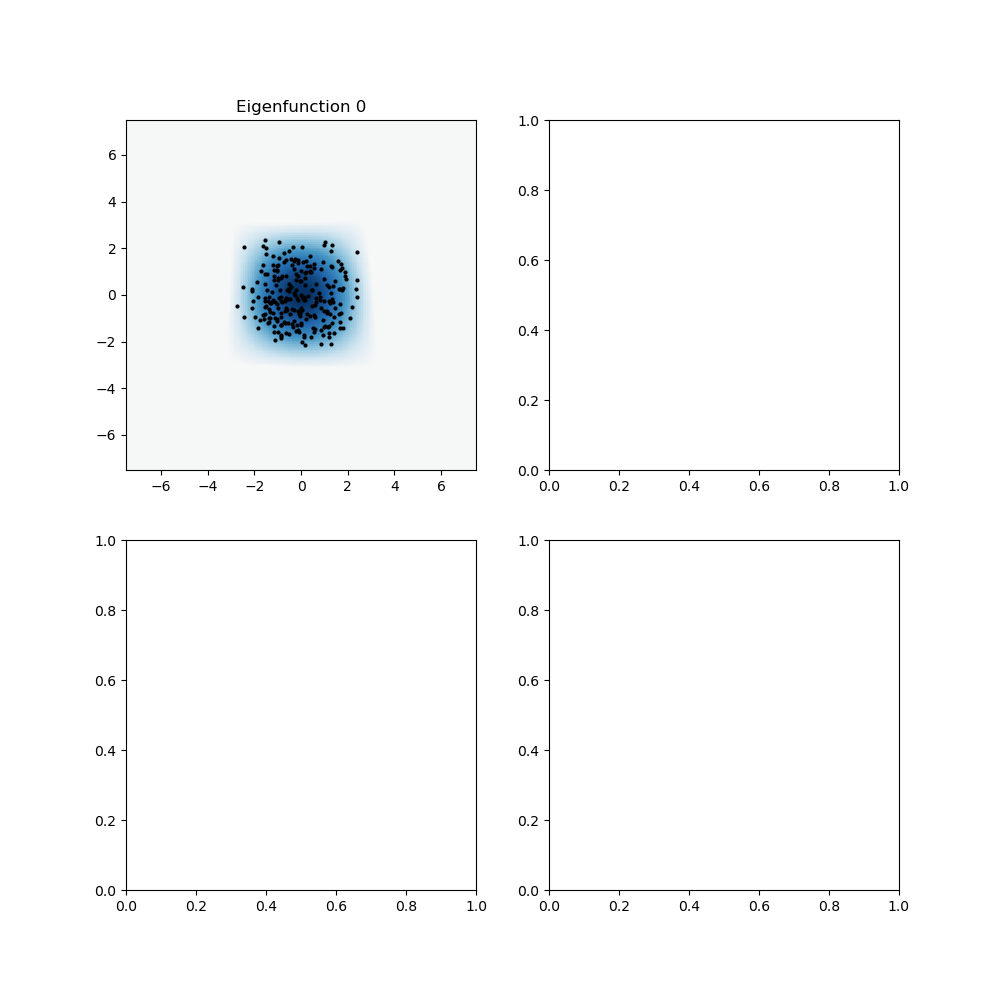
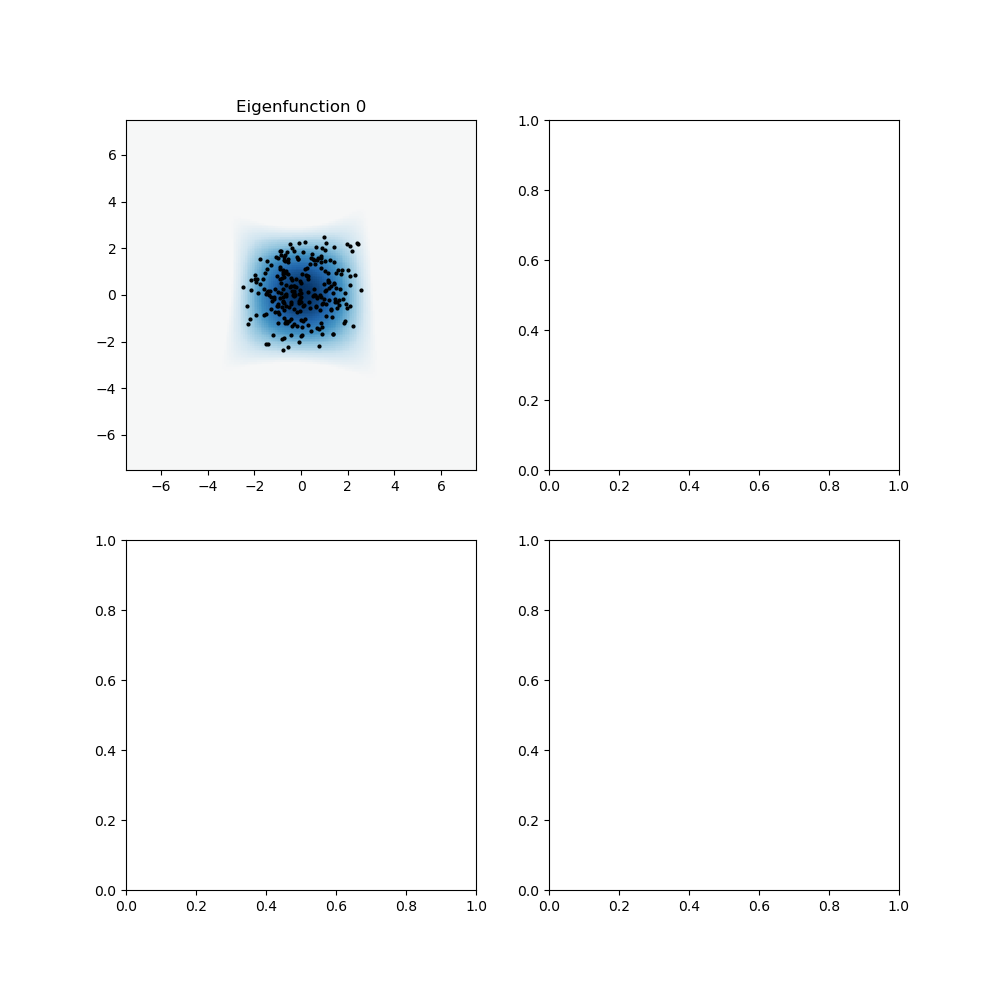
.

Changed region(s): [[0.248, 0.217, 0.372, 0.372]]

diff --git a/vqmc.py b/vqmc.py
@@ -20,7 +20,7 @@ from helper import test_calibration
 
 # config.update("jax_enable_x64", True)
 # config.update('jax_platform_name', 'cpu')
-config.update("jax_debug_nans", True)
+# config.update("jax_debug_nans", True)
 
 
 def create_train_state(box_length, learning_rate, n_space_dimension=2, prior_wavefunction_n=1, rng=0):
@@ -51,13 +51,13 @@ def create_train_state(box_length, learning_rate, n_space_dimension=2, prior_wav
         _, params = init_fun(rng, (input_dim,))
         return params, apply_fun
 
-    psi, pdf, dpdf, cdf = get_particle_in_the_box_fns(box_length, prior_wavefunction_n)
-    particleInBox = ParticleInBoxWrapper(psi, pdf, dpdf, cdf)
+    psi, prior_pdf, dpdf, cdf = get_particle_in_the_box_fns(box_length, prior_wavefunction_n)
+    particleInBox = ParticleInBoxWrapper(psi, prior_pdf, dpdf, cdf)
     sample = NumericalInverseHermite(particleInBox, domain=(-box_length / 2, box_length / 2), order=1, u_resolution=1e-7)
 
     init_fun = WaveFlow(
         flows.Serial(*(flows.MADE(masked_transform), flows.Reverse()) * 5),
-        psi, pdf, sample
+        psi, prior_pdf, sample
     )
 
     params, psi, log_pdf, sample = init_fun(rng, n_space_dimension, normalization_length=box_length)
@@ -103,16 +103,16 @@ def conditional_expand(arr1, arr2):
         return arr2
 
 @partial(jit, static_argnums=(1, 2, 3, 4, 6))
-def train_step(epoch, psi, h_fn, log_pdf, opt_update, opt_state, get_params, batch):
+def train_step(epoch, psi, h_fn, log_pdf, opt_update, opt_state, get_params, batch, running_avg_loss):
     # TODO: Think about adding baseline in policy gradient part to the gradient to reduce variance, probably not though
     params = get_params(opt_state)
     energy_gradient, aux = grad(loss_fn, argnums=0, has_aux=True)(params, psi, h_fn, batch)
     energies_val, psi_val = aux
     normalized_energies = energies_val / psi_val
-    # log_pdf_grad = jax.jacrev(log_pdf, argnums=0)(params, batch)
-    # pdf_gradient = jax.tree_multimap(lambda x: (x*conditional_expand(x, normalized_energies)).mean(0), log_pdf_grad)
-    # gradients = jax.tree_multimap(lambda x, y: x + y, energy_gradient, pdf_gradient)
-    gradients = energy_gradient
+    log_pdf_grad = jax.jacrev(log_pdf, argnums=0)(params, batch)
+    pdf_gradient = jax.tree_multimap(lambda x: (x*(conditional_expand(x, normalized_energies) - running_avg_loss)).mean(0), log_pdf_grad)
+    gradients = jax.tree_multimap(lambda x, y: x + y, energy_gradient, pdf_gradient)
+    # gradients = energy_gradient
     loss_val = normalized_energies.mean()
     return opt_update(epoch, gradients, opt_state), loss_val
 
@@ -137,7 +137,7 @@ class ModelTrainer:
         self.window = 100
 
         # Optimizer
-        self.learning_rate = 1e-4
+        self.learning_rate = 5e-5
 
         # Train setup
         self.num_epochs = 200000
@@ -165,7 +165,7 @@ class ModelTrainer:
 
 
         start_epoch = 0
-        loss = []
+        loss = [0]
         energies = []
         # if Path(self.save_dir).is_dir():
         #     with open('{}/checkpoints/'.format(self.save_dir), 'rb') as f:
@@ -190,6 +190,8 @@ class ModelTrainer:
 
 
 
+
+
             # Generate a random batch
             split_rng, rng = jax.random.split(rng)
             # batch = jax.random.uniform(split_rng, minval=-self.box_length/2, maxval=self.box_length/2,
@@ -201,7 +203,7 @@ class ModelTrainer:
 
             # Run an optimization step over a training batch
             # opt_state, new_loss = train_step_uniform(epoch, psi, h_fn, opt_update, opt_state, get_params, batch)
-            opt_state, new_loss = train_step(epoch, psi, h_fn, log_pdf, opt_update, opt_state, get_params, batch)
+            opt_state, new_loss = train_step(epoch, psi, h_fn, log_pdf, opt_update, opt_state, get_params, batch, jnp.array(loss[-100:]).mean())
             pbar.set_description('Loss {:.3f}'.format(jnp.around(jnp.asarray(new_loss), 3).item()))
 
             loss.append(new_loss)

diff --git a/halfmoon.py b/halfmoon.py
@@ -159,29 +159,26 @@ for epoch in pbar:
         xv = np.expand_dims(xv, axis=-1)
         yv = np.expand_dims(yv, axis=-1)
         grid = np.concatenate([xv, yv], axis=-1)
-        # psi_grid = psi(params, grid).reshape(100, 100)
-        # plt.imshow(psi_grid, extent=[-length/2, length/2, -length/2, length/2], origin='lower')
+        psi_grid = psi(params, grid).reshape(100, 100)
+        plt.imshow(psi_grid, extent=[-length/2, length/2, -length/2, length/2], origin='lower')
+        plt.show()
+
+        plt.imshow(psi_grid**2, extent=[-length/2, length/2, -length/2, length/2], origin='lower')
+        plt.show()
+
+
+        # pdf_vals = np.exp(log_pdf(params, grid)).reshape(100, 100)
+        #
+        # X_syn = sample(rng, params, 10000)
+        # hist = np.histogram2d(X_syn[:, 0], X_syn[:, 1], bins=np.linspace(-length / 2, length / 2, 101), density=True)[0].T
+        # plt.imshow(hist, extent=[-length / 2, length / 2, -length / 2, length / 2], origin='lower')
         # plt.show()
         #
-        # plt.imshow(psi_grid**2, extent=[-length/2, length/2, -length/2, length/2], origin='lower')
+        # plt.imshow(pdf_vals, extent=[-length / 2, length / 2, -length / 2, length / 2], origin='lower')
         # plt.show()
-
-
-        pdf_vals = np.exp(log_pdf(params, grid)).reshape(100, 100)
-
-        X_syn = sample(rng, params, 10000)
-        hist = np.histogram2d(X_syn[:, 0], X_syn[:, 1], bins=np.linspace(-length / 2, length / 2, 101), density=True)[0].T
-        plt.imshow(hist, extent=[-length / 2, length / 2, -length / 2, length / 2], origin='lower')
-        plt.show()
-
-        plt.imshow(pdf_vals, extent=[-length / 2, length / 2, -length / 2, length / 2], origin='lower')
-        plt.show()
-
-        plt.imshow(np.abs(hist - pdf_vals), extent=[-length / 2, length / 2, -length / 2, length / 2], origin='lower')
-        plt.show()
-
-        print(np.mean(np.abs(hist - gt_grid).reshape(-1)[hist.reshape(-1) > 0]))
-        exit()
+        #
+        # plt.imshow(np.abs(hist - pdf_vals), extent=[-length / 2, length / 2, -length / 2, length / 2], origin='lower')
+        # plt.show()
 
 
 

diff --git a/wavefunctions.py b/wavefunctions.py
@@ -99,7 +99,7 @@ def WaveFlow(transformation, prior_psi, prior_pdf, prior_sampling):
             if len(inputs.shape) == 1:
                 inputs = inputs[None]
 
-            inputs = (inputs - normalization_mean) / normalization_length
+            # inputs = (inputs - normalization_mean) / normalization_length
 
             u, log_det = direct_fun(params, inputs)
 
